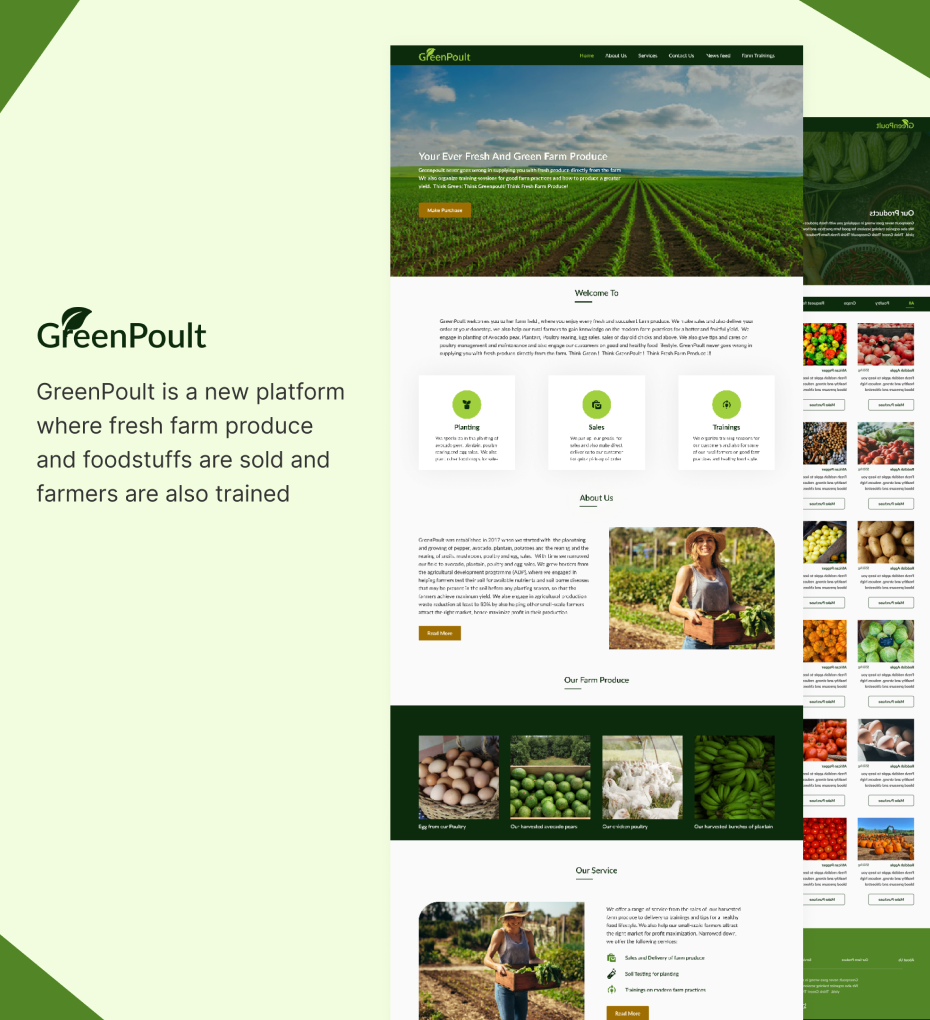
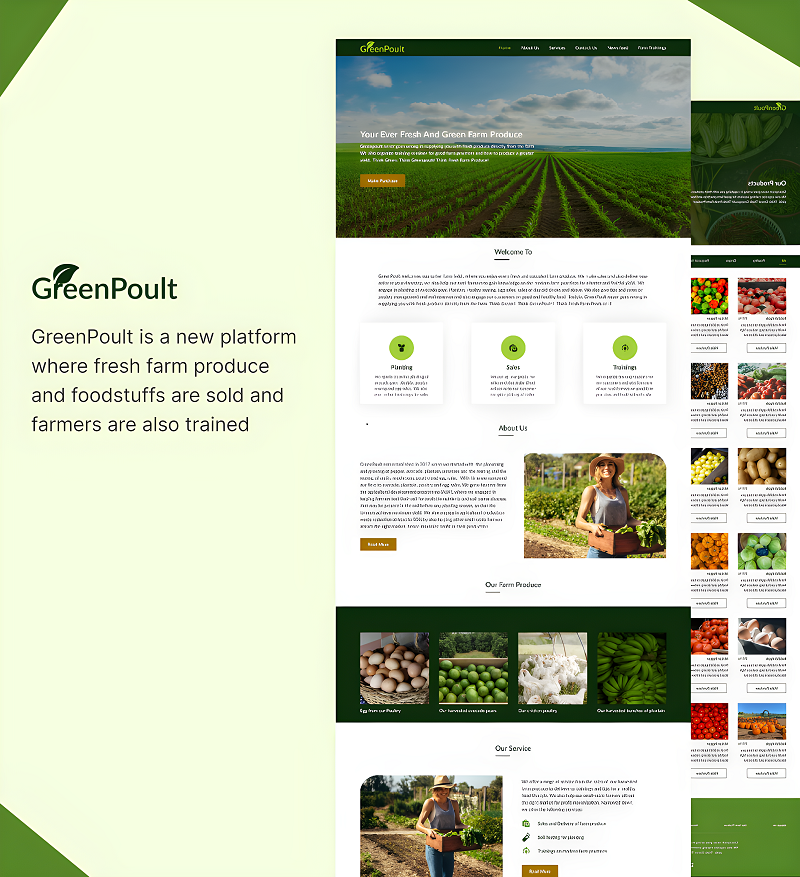
added footer

diff --git a/index.html b/index.html
@@ -45,7 +45,7 @@
                 UX research and technical writing. I help businesses 
                 bring about positive change, using an impactful brand 
                 strategy data enginerring approach, business strategy and 
-                design process.... <a href="about.html" class="underline">Know More About Me</a></p>
+                design process.... <a href="about.html" class="underline link-color">Know More About Me</a></p>
 
                 <a href="#"></a><button class="btn">My Resume</button></a>
         </div>
@@ -130,6 +130,25 @@
                 </div>
             </div>
         </section>
+
+        <footer>
+            <div class="footer-wrapper">
+                <h2>Get In Touch</h2>
+                <p>Want us to work together or make enquiry? <a href="mailto:gbadamosimateen@gmail.com" class="bold">Email Me</a></p>
+                <div class="social-links">
+                    <a href="#" class="svg-icon"><img src="assets/icons/mail.svg" alt="icon for mailbox"></a>
+                    <a href="#" class="svg-icon"><img src="assets/icons/dribbble.svg" alt="icon for dribble profile"></a>
+                    <a href="#" class="svg-icon"><img src="assets/icons/linkedin.svg" alt="icon for linkedin account"></a>
+                    <a href="#" class="svg-icon"><img src="assets/icons/medium.svg" alt="icon for medium blog"></a>
+                </div>
+
+                <hr>
+                <div class="buttom-footer">
+                    <img src="assets/images/logo.png" alt="logo image for Chizzy">
+                    <p>&copy; Copyright 2022. All right reserved</p>
+                </div>
+            </div>
+        </footer>
     </div>
     
 </body>

diff --git a/assets/css/style.css b/assets/css/style.css
@@ -41,6 +41,7 @@ p {
   font-size: 16px;
   font-weight: 400;
   line-height: 1.4;
+  color: #333333;
 }
 
 button {
@@ -86,6 +87,10 @@ button:hover {
   -webkit-box-align: center;
       -ms-flex-align: center;
           align-items: center;
+}
+
+.link-color {
+  color: #263250 !important;
 }
 
 /*=======NAVIGATION BAR STYLING========*/
@@ -415,4 +420,59 @@ label.logo img {
     width: 100%;
     height: auto;
   }
+}
+.footer-wrapper {
+  text-align: center;
+}
+.footer-wrapper .bold {
+  font-weight: bold;
+  color: #263250;
+  -webkit-transition: 0.3s;
+  transition: 0.3s;
+}
+.footer-wrapper .bold:hover {
+  text-decoration: underline;
+  -webkit-transition: 0.3s;
+  transition: 0.3s;
+}
+.footer-wrapper .social-links {
+  margin: 12px 0 48px;
+}
+.footer-wrapper .svg-icon {
+  background-color: #263250;
+  padding: 6px;
+  margin-right: 24px;
+  width: 32px;
+  height: auto;
+}
+.footer-wrapper .svg-icon img {
+  width: 24px;
+  height: auto;
+  position: relative;
+  top: 4px;
+}
+.footer-wrapper hr {
+  margin-top: 24px;
+  max-width: 900px;
+  margin: auto;
+}
+
+.buttom-footer {
+  display: -webkit-box;
+  display: -ms-flexbox;
+  display: flex;
+  -webkit-box-pack: center;
+      -ms-flex-pack: center;
+          justify-content: center;
+  -webkit-box-align: center;
+      -ms-flex-align: center;
+          align-items: center;
+  margin-top: 24px;
+  margin-bottom: 48px;
+}
+.buttom-footer img {
+  width: 32px;
+  height: auto;
+  position: relative;
+  left: -20%;
 }

diff --git a/assets/scss/style.scss b/assets/scss/style.scss
@@ -39,6 +39,7 @@ p{
     font-size: 16px;
     font-weight: 400;
     line-height: 1.4;
+    color: $fontColor;
 }
 button{
     color: #fff;
@@ -69,7 +70,9 @@ button{
     justify-content: center;
     align-items: center;
 }
-
+.link-color{
+    color: #263250 !important;
+}
 /*=======NAVIGATION BAR STYLING========*/
 nav{
 	background: $secondaryColor;
@@ -346,5 +349,53 @@ label.logo{
             width: 100%;
             height: auto;
         }
+    }
+}
+
+
+.footer-wrapper{
+    text-align: center;
+    .bold{
+        font-weight: bold;
+        color: #263250;
+        transition: 0.3s;
+        &:hover{
+            text-decoration: underline;
+            transition: 0.3s;
+        }
+    }
+    .social-links{
+        margin: 12px 0 48px;
+    }
+    .svg-icon{
+        background-color: $iconBackground;
+        padding: 6px;
+        margin-right: 24px;
+        width: 32px;
+        height: auto;
+        img{
+            width: 24px;
+            height: auto;
+            position: relative;
+            top: 4px;
+        }
+    }
+    hr{
+        margin-top: 24px;
+        max-width: 900px;
+        margin: auto;
+    }
+}
+.buttom-footer{
+    display: flex;
+    justify-content: center;
+    align-items: center;
+    margin-top: 24px;
+    margin-bottom: 48px;
+    img{
+        width: 32px;
+        height: auto;
+        position: relative;
+        left: -20%;
     }
 }
